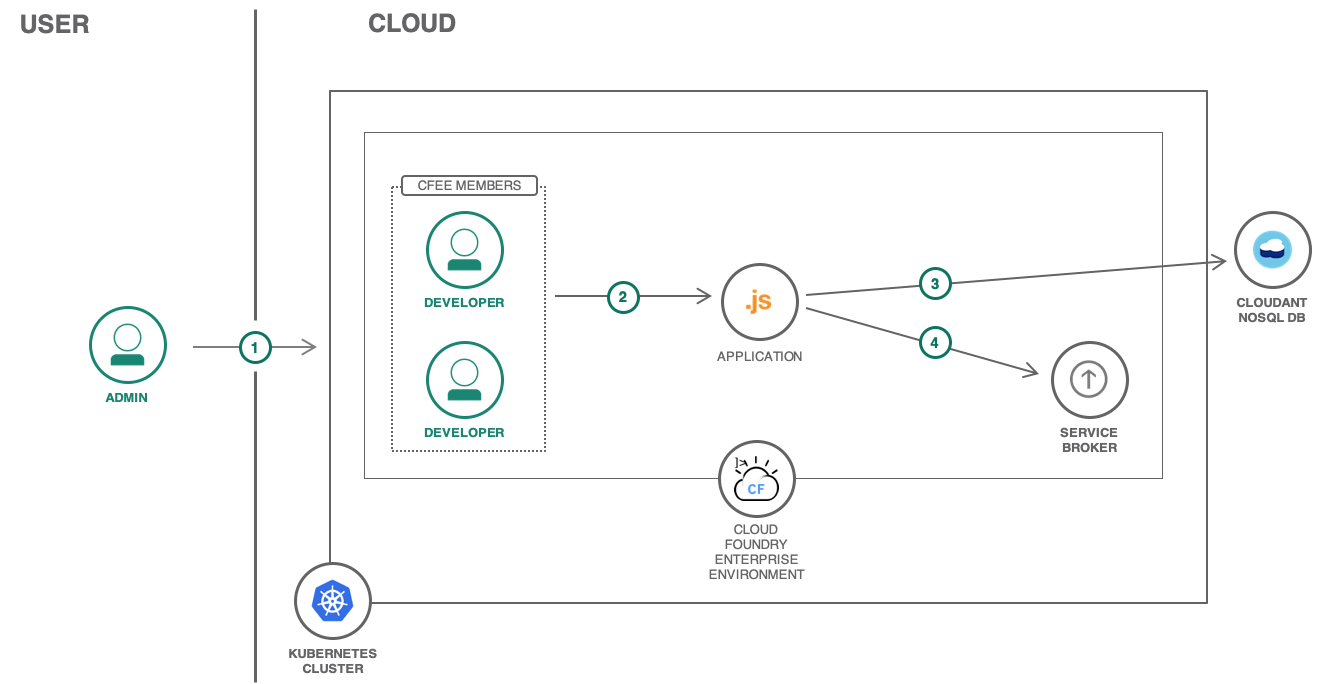
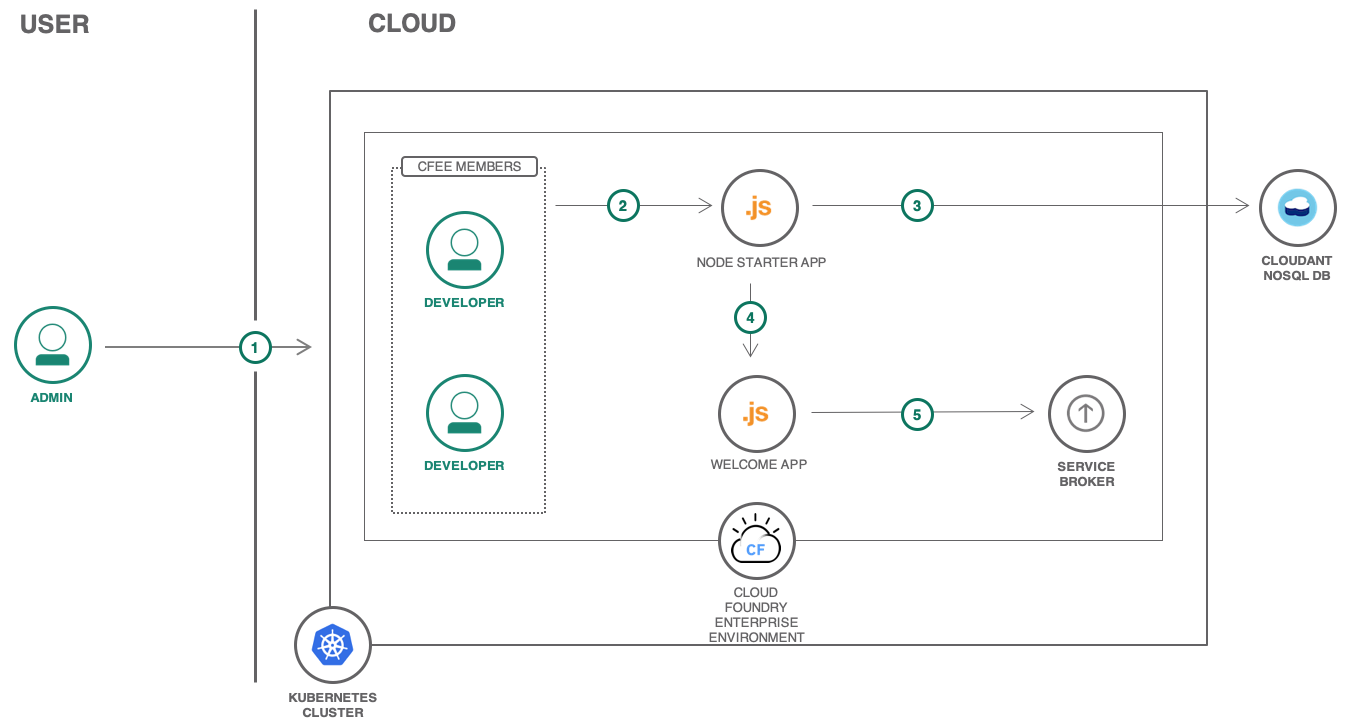
Update digram and steps

diff --git a/isolated-cloud-foundry-enterprise-apps.md b/isolated-cloud-foundry-enterprise-apps.md
@@ -53,8 +53,9 @@ This tutorial may incur costs. Use the [Pricing Calculator](https://{DomainName}
 
 1. Create a CFEE instance, then add users with developer access to the CFEE instance. 
 2. Push a Node.js starter app to CFEE.
-3. Create a [{{site.data.keyword.cloudant_short_notm}}](https://{DomainName}/catalog/services/cloudant-nosql-db) and bind it to the CFEE instance. 
-4. Create and deploy a service broker, then bind it and use it within the Node app. 
+3. [{{site.data.keyword.cloudant_short_notm}}](https://{DomainName}/catalog/services/cloudant-nosql-db) to store names inputed from the Node.js starter app.
+4. Welcome app returning a `welcome` message in different languages in which been used by the Node.js starter app.
+5. A service broker deployed and used by the Welcome app. 
 
 ## Prerequisites
 
